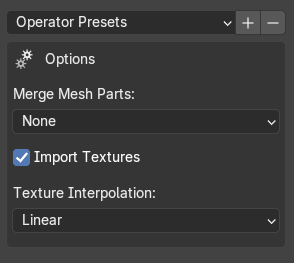
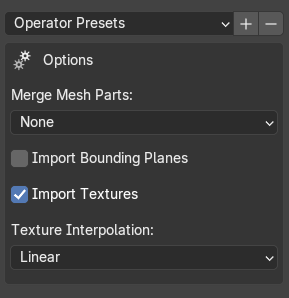
v0.6.0
Bounding info import, alpha mode setup and ANM parsing

diff --git a/MSH/MSH_Loader.py b/MSH/MSH_Loader.py
@@ -5,9 +5,9 @@ from mathutils import Matrix
 
 from .MSH_Parser import MSHParser
 
-def loadMSH(filePath, collection=None, mergeMeshes=None, importTextures=False, textureInterpolation=None, /, *, texturesDir = None):
+def loadMSH(filePath, collection=None, mergeMeshes=None, importBoundings=False, importTextures=False, textureInterpolation=None, /, *, texturesDir = None):
     parser = MSHParser(path=filePath)
-    vertexInfoDict, faceInfos, meshInfos, boneInfos, textures, armatureOriginMatrix = parser.read()
+    vertexInfoDict, faceInfos, meshInfos, boneInfos, textures, armatureOriginMatrix, boundingInfos = parser.read()
 
     fileName = os.path.basename(filePath).split(".")[0]
     if collection is None:
@@ -71,6 +71,9 @@ def loadMSH(filePath, collection=None, mergeMeshes=None, importTextures=False, t
 
     #meshName = fileName + '_Group[{}]_Index[{}]_Material[{}]'
     meshesToMerge = {}
+    colMeshes = bpy.data.collections.new(fileName + '_Meshes')
+    colMeshes.color_tag = "COLOR_01"
+    col.children.link(colMeshes)
     for mesh in meshInfos:
         if mergeMeshes == 'NONE':
             meshName = fileName + '_Group[{}]_Index[{}]_Material[{}]'.format(mesh['group'], meshInfos.index(mesh), mesh['textureIndex'])
@@ -80,7 +83,7 @@ def loadMSH(filePath, collection=None, mergeMeshes=None, importTextures=False, t
             meshName = fileName + '_merged_Material[{}]'.format(mesh['textureIndex'])
         meshNew = bpy.data.meshes.new(meshName)
         obj = bpy.data.objects.new(meshNew.name, meshNew)
-        col.objects.link(obj)
+        colMeshes.objects.link(obj)
         obj.rotation_mode = 'XYZ'
 
         meshFaces = []
@@ -88,10 +91,10 @@ def loadMSH(filePath, collection=None, mergeMeshes=None, importTextures=False, t
             meshFaces.append([index - mesh['vertexStart'] for index in faceInfos[mesh['faceStart'] // 3 + i]])
         meshNew.from_pydata(vertexInfoDict['positions'][mesh['vertexStart']:mesh['vertexStart'] + mesh['vertexCount']], [], meshFaces)
 
-        if armatureObject is not None:
-                obj.parent = armatureObject
-                armatureModifier = obj.modifiers.new('Armature', 'ARMATURE')
-                armatureModifier.object = armatureObject
+        if armatureObject:
+            obj.parent = armatureObject
+            armatureModifier = obj.modifiers.new('Armature', 'ARMATURE')
+            armatureModifier.object = armatureObject
         
         bpy.context.view_layer.objects.active = obj
 
@@ -173,9 +176,17 @@ def loadMSH(filePath, collection=None, mergeMeshes=None, importTextures=False, t
                 links.new(mixShader.outputs[0], outputMaterial.inputs[0])
                 links.new(transparentShader.outputs[0], mixShader.inputs[1])
                 links.new(diffuseShader.outputs[0], mixShader.inputs[2])
-                links.new(texImage.outputs[0], diffuseShader.inputs[0])
-                links.new(texImage.outputs[1], mixShader.inputs[0])
                 links.new(UVMapNode.outputs[0], texImage.inputs[0])
+                links.new(texImage.outputs[0], diffuseShader.inputs[0])
+                if parser.renderFlags & (1 << 4):  # Alpha blending
+                    links.new(texImage.outputs[1], mixShader.inputs[0])
+                else:  # Alpha testing
+                    mathNode = nodes.new('ShaderNodeMath')
+                    mathNode.location = (-352, -133)
+                    mathNode.operation = 'GREATER_THAN'
+                    mathNode.inputs[1].default_value = 254 / 255
+                    links.new(texImage.outputs[1], mathNode.inputs[0])
+                    links.new(mathNode.outputs[0], mixShader.inputs[0])
 
             else:
                 mat = bpy.data.materials[materialName]
@@ -208,6 +219,45 @@ def loadMSH(filePath, collection=None, mergeMeshes=None, importTextures=False, t
                     groupObj.select_set(True)
                 bpy.context.view_layer.objects.active = listObj[0]
                 bpy.ops.object.join()
+
+    if importBoundings:
+        colBoundings = bpy.data.collections.new(fileName + "_BoundingPlanes")
+        colBoundings.color_tag = "COLOR_05"
+        col.children.link(colBoundings)
+
+        for boundingPlane in boundingInfos:
+            meshBoundingPlane = bpy.data.meshes.new("{}_BoundingPlane_{}".format(fileName, boundingInfos.index(boundingPlane)))
+            objBoundingPlane = bpy.data.objects.new(meshBoundingPlane.name, meshBoundingPlane)
+            colBoundings.objects.link(objBoundingPlane)
+            objBoundingPlane.rotation_mode = 'XYZ'
+
+            if len(boundingPlane['points']) == 1:
+                meshBoundingPlane.from_pydata(boundingPlane['points'], [], [])
+            elif len(boundingPlane['points']) == 2:
+                meshBoundingPlane.from_pydata(boundingPlane['points'], [0, 1], [])
+            else:
+                meshBoundingPlane.from_pydata(boundingPlane['points'], [], [range(len(boundingPlane['points']))])
+            
+            if armatureObject:
+                objBoundingPlane.parent = armatureObject
+
+            if boundingPlane['extraBoundingInfos']:
+                for extraBounding in boundingPlane['extraBoundingInfos']:
+                    meshBoundingSub = bpy.data.meshes.new("{}_BoundingPlane_{}_Sub_{}".format(fileName, boundingInfos.index(boundingPlane), boundingPlane['extraBoundingInfos'].index(extraBounding)))
+                    objBoundingSub = bpy.data.objects.new(meshBoundingSub.name, meshBoundingSub)
+                    colBoundings.objects.link(objBoundingSub)
+                    objBoundingSub.rotation_mode = 'XYZ'
+                    
+                    if len(boundingPlane['points']) == 1:
+                        meshBoundingPlane.from_pydata(boundingPlane['points'], [], [])
+                    elif len(boundingPlane['points']) == 2:
+                        meshBoundingPlane.from_pydata(boundingPlane['points'], [0, 1], [])
+                    else:
+                        meshBoundingSub.from_pydata(extraBounding, [], [range(len(extraBounding))])
+
+                    if armatureObject:
+                        objBoundingSub.parent = armatureObject
+
 
     bpy.ops.object.select_all(action='DESELECT')        
     return returnedObjects

diff --git a/MSH/MSH_Parser.py b/MSH/MSH_Parser.py
@@ -15,10 +15,16 @@ class MSHParser():
         if self.magic != 536938242:
             raise RuntimeError(str("Invalid MSH file or not MSH file from The I of the Dragon."))
         
-        _ = self.fileStream.readUInt32()
-        _ = self.fileStream.readUInt32()
-        _ = self.fileStream.readUInt32()
-        _ = self.fileStream.readUInt32()
+        self.MSHVersion = self.fileStream.readUInt32()
+        self.MSHVersionSub = self.fileStream.readUInt32()
+        self.MSHVersionLast = self.fileStream.readUInt32()
+
+        # Render Flags: Binary array that controls how mesh was rendered.
+        #   1st byte
+        #       2nd bit - Unknown. May lead to access violation error while exiting the game when set to 1
+        #       5th bit - Alpha mode. Use alpha testing (0) or alpha blending (1) for transparency.
+        self.renderFlags = self.fileStream.readUInt32()
+        
         _ = self.fileStream.readUInt32()
 
         faceCount = self.fileStream.readUInt32()
@@ -35,9 +41,8 @@ class MSHParser():
 
         _ = self.fileStream.readUInt32()
         _ = self.fileStream.readUInt32()
-        unknownSectionLength = self.fileStream.readUInt32()
+        boundingSectionSize = self.fileStream.readUInt32()
 
-        
         self.fileStream.seek(self.bodyEntry)
 
         positions = []
@@ -107,8 +112,37 @@ class MSHParser():
             ]
             bone['name'] = self.fileStream.readString(self.fileStream.readUInt32())
             boneInfos.append(bone)
+        
+        boundingSectionEnd = self.fileStream.tell() + boundingSectionSize
+        boundingInfos = []
+        boundingPlaneCount = self.fileStream.readUInt32()
+        for i in range(boundingPlaneCount):
+            blockSize = self.fileStream.readUInt32()
+            blockEnd = self.fileStream.tell() + blockSize
+            pointCount = self.fileStream.readUInt32()
 
-        return vertexInfoDict, faceInfos, meshInfos, boneInfos, textures, armatureOriginMatrix
+            boundingInfo = {
+                'points': [ [self.fileStream.readFloat32(), self.fileStream.readFloat32(), 0.0] for j in range(pointCount) ],
+            }
+
+            boundingCountExtra = self.fileStream.readUInt32()
+            extraBoundingInfos = []
+            for k in range(boundingCountExtra):
+                pointCountExtra = self.fileStream.readUInt32()
+                extraBounding = [ [self.fileStream.readFloat32(), self.fileStream.readFloat32(), 0.0] for l in range(pointCountExtra)  ]
+                extraBoundingInfos.append(extraBounding)
+            
+            boundingInfo['extraBoundingInfos'] = extraBoundingInfos
+                
+            
+            self.fileStream.seek(blockEnd)
+            boundingInfos.append(boundingInfo)
+
+        self.fileStream.seek(boundingSectionEnd)
+        MSHInfo = self.fileStream.readString(self.fileStream.readUInt32())
+        print(f"\nMSH Info: {MSHInfo}\n")
+
+        return vertexInfoDict, faceInfos, meshInfos, boneInfos, textures, armatureOriginMatrix, boundingInfos
 
 
 

diff --git a/ANM/ANM_Parser.py b/ANM/ANM_Parser.py
@@ -1,1 +1,58 @@
-# WIP..
+from ..COMMON.Reader import FStream
+
+
+class ANMParser():
+    def __init__(self, path = None, data = None):
+        self.path = path
+        if data is None:
+            with open(path, "rb") as anm_file:
+                data = anm_file.read()
+        self.fileStream = FStream(data)
+    
+    def read(self):
+        self.bodyEntry = self.fileStream.readUInt32()
+        self.magic = self.fileStream.readUInt32()
+        if self.magic != 536937236:
+            raise RuntimeError(str("Invalid ANM file or not ANM file from The I of the Dragon."))
+        self.ANMVersion = self.fileStream.readUInt32()
+        self.ANMVersionSub = self.fileStream.readUInt32()
+        self.ANMVersionLast = self.fileStream.readUInt32()
+
+        boneCount = self.fileStream.readUInt32()
+        duration = self.fileStream.readFloat32()
+        unknownMatrix = [
+            [self.fileStream.readFloat32(), self.fileStream.readFloat32(), self.fileStream.readFloat32()],
+            [self.fileStream.readFloat32(), self.fileStream.readFloat32(), self.fileStream.readFloat32()]
+        ]
+
+        boneInfos = []
+        for i in range(boneCount):
+            boneInfo = {}
+            _ = self.fileStream.readUInt32()
+            _ = self.fileStream.readFloat32()
+            frameCount = self.fileStream.readUInt32()
+            boneInfo['name'] = self.fileStream.readString(self.fileStream.readUInt32())
+            boneInfo['parentName'] = self.fileStream.readString(self.fileStream.readUInt32())
+
+            frameInfos = []
+            for j in range(frameCount):
+                frameInfo = {}
+                frameInfo['timecode'] = self.fileStream.readFloat32()
+                frameInfo['matrixGlobal'] = [
+                    [self.fileStream.readFloat32(), self.fileStream.readFloat32(), self.fileStream.readFloat32(), self.fileStream.readFloat32()],
+                    [self.fileStream.readFloat32(), self.fileStream.readFloat32(), self.fileStream.readFloat32(), self.fileStream.readFloat32()],
+                    [self.fileStream.readFloat32(), self.fileStream.readFloat32(), self.fileStream.readFloat32(), self.fileStream.readFloat32()],
+                    [self.fileStream.readFloat32(), self.fileStream.readFloat32(), self.fileStream.readFloat32(), self.fileStream.readFloat32()]
+                ]
+                self.fileStream.cursor += 4 * 11
+                frameInfos.append(frameInfo)
+            boneInfo['frameInfos'] = frameInfos
+
+            boneInfos.append(boneInfo)
+
+        return boneInfos
+
+
+if __name__ == '__main__':
+    file_path = 'D:/IOTD/Geometry/Dragon/Dragon_Blow.ANM'
+    ANMParser(path=file_path).read()

diff --git a/MSH/MSH_UI.py b/MSH/MSH_UI.py
@@ -22,6 +22,8 @@ class MSH_Import_Panel:
         col.row().label(text="Merge Mesh Parts: ")
         col.row().prop(panel, "mergeMeshes")
         col.separator()
+        col.row().prop(panel, "importBoundings")
+        col.separator()
         col.row().prop(panel, "importTextures")
         col.separator()
         
@@ -63,6 +65,11 @@ class MSH_Import(bpy.types.Operator, ImportHelper):
 			   ],
         default = "NONE"
     )
+    importBoundings: BoolProperty(
+        name = "Import Bounding Planes", 
+        description = "Import 2D planes data stored in MSH files that likely to be bounds.",
+        default = False
+    )
     importTextures: BoolProperty(
         name = "Import Textures", 
         description = "Import textures and auto setup materials. Make sure textures path in addon preferences is set correctly.",
@@ -100,7 +107,7 @@ class MSH_Import(bpy.types.Operator, ImportHelper):
             return {"CANCELLED"}
         
         for filepath in filepaths:
-            objs = loadMSH(filepath, None, self.mergeMeshes, self.importTextures, self.textureInterpolation, texturesDir=addon_prefs.texturesPath)
+            objs = loadMSH(filepath, None, self.mergeMeshes, self.importBoundings, self.importTextures, self.textureInterpolation, texturesDir=addon_prefs.texturesPath)
         return {"FINISHED"}
     
     def invoke(self, context, event):

diff --git a/__init__.py b/__init__.py
@@ -2,7 +2,7 @@ bl_info = {
     "name": "IDragon Blender Tools",
     "author": "XenonValstrax",
     "blender": (2, 93, 0),
-    "version": (0, 5, 0),
+    "version": (0, 6, 0),
     "description": "Import MSH files from game - The I of the Dragon",
     "warning": "",
     "category": "Import-Export",

diff --git a/ANM/ANM_Loader.py b/ANM/ANM_Loader.py
@@ -1,1 +1,1 @@
-# WIP..
+# WIP...

diff --git a/README.md b/README.md
@@ -4,14 +4,15 @@ Blender (3.0+) addon for importing mesh files (\*.MSH), mainly from game <i><b>I
 Currently work in progress.    
 
 ## Current Status
-VERSION: 0.5
+VERSION: 0.6.0
 
 Supported Features: 
  * Full meshes import (with normals, weights, UVs, etc.)
  * Full bones import
  * Textures import (with material setup)
+ * Bounding planes import
  * Merge meshes (by groups / materials)
- * Drag & drop import (Blender 4.1+ required) and multiple import supported.
+ * Drag & drop import (Blender 4.1+ required) and multiple import
  
 Work In Progress: 
  * Animation files (\*.ANM) import
@@ -21,13 +22,13 @@ Work In Progress:
 ![Blender Screenshot](IMAGES/Screenshot.png)
 
 ### Installation & Configuration
- 1. Download the repository as ZIP and install like usual Blender addons.
+ 1. Download the addon from [releases](https://github.com/XenonBaruku/IDragon-Blender-Tools/releases), or download the repository as ZIP, then install like usual Blender addons.
  2. Config unpacked textures directory in addon preferences.
  ![Addon Preferences](IMAGES/AddonPreferences.png)
  3. Check <b>File > Import</b>, there should be a new item named <b><i>The I of the Dragon</i></b>, with all supported file types in it.
 
 ### MSH Import
-#### Import Settings    
+<b>Import Settings</b>    
 
 ![Import Settings](IMAGES/ImportSettings.png)
 
@@ -37,6 +38,8 @@ Work In Progress:
  * <b>None</b> - Do not merge mesh parts
  * <b>By Groups</b> - Merge mesh parts by group IDs
  * <b>By Textures</b> - Merge mesh parts by textures used
+
+<b>Import Bounding Planes</b>: Import 2D planes data stored in MSH files that likely to be bounds.
 
 <b>Import Textures</b>: Whether import textures (and setup materials) or not. Note that textures directory in addon preferences must be set in order to use this.
 
